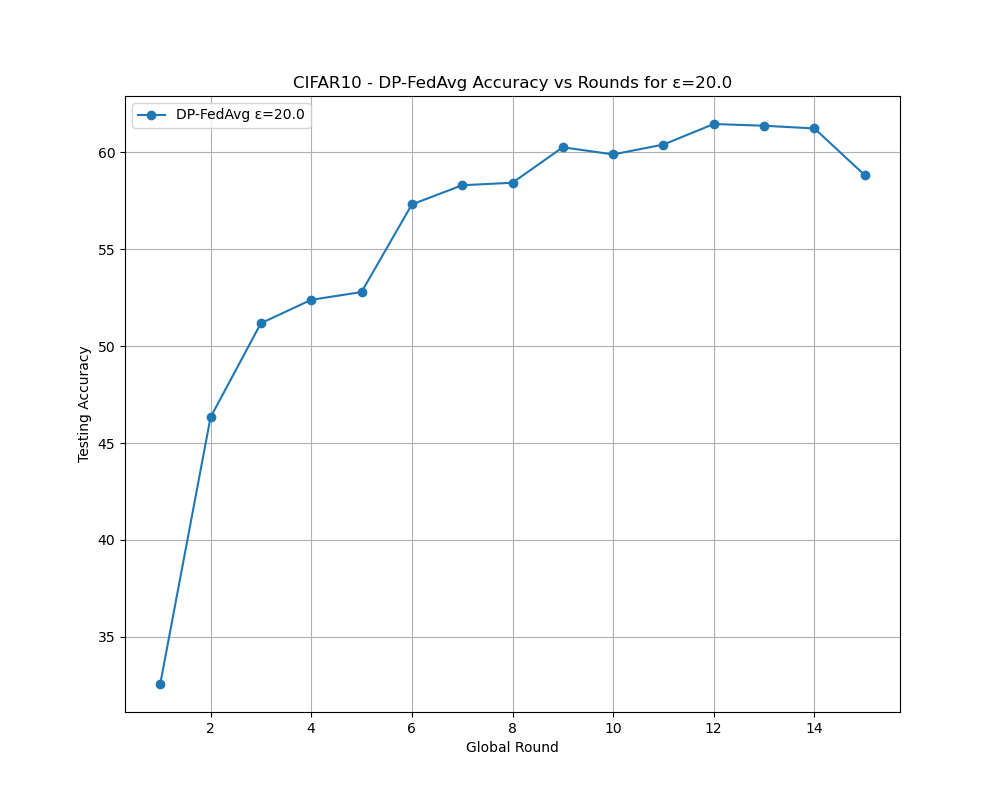
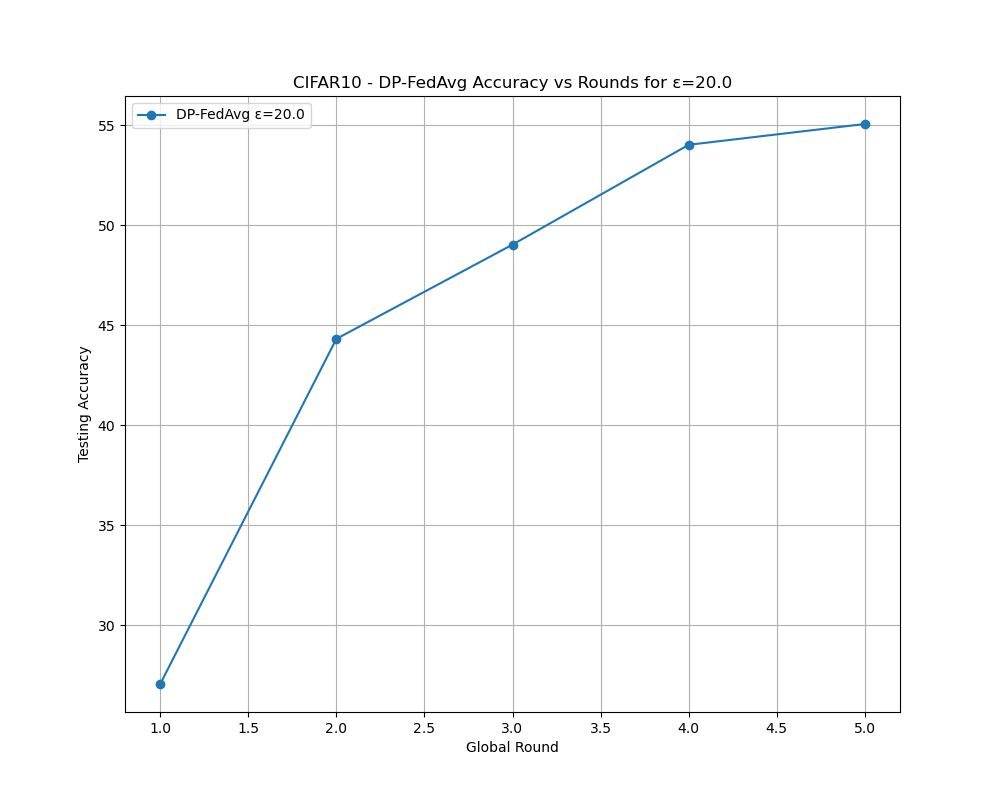
Working MIA attacks on model, output table to show Attack MOdel accuracy vs Epsilon Values

diff --git a/GPU_CIFAR10_DP_FedAvg.py b/GPU_CIFAR10_DP_FedAvg.py
@@ -10,6 +10,8 @@ from torch.utils.data import DataLoader, SubsetRandomSampler
 from sklearn.model_selection import train_test_split
 from sklearn.linear_model import LogisticRegression
 from sklearn.metrics import accuracy_score
+import pandas as pd
+import seaborn as sns
 
 # Check if GPU is available and set the device accordingly
 # Explicitly set the device to GPU 0 (NVIDIA GeForce RTX 4060)
@@ -130,9 +132,9 @@ def train_attack_model(X, y):
     predictions = attack_model.predict(X_test)
     accuracy = accuracy_score(y_test, predictions)
     print(f"Attack Model Accuracy: {accuracy:.4f}")
-    return attack_model
+    return attack_model, accuracy
 
-def run_fedavg(dataset_name='CIFAR10', num_clients=4, num_rounds=15, local_epochs=1, epsilon_values=[0.0, 1.0, 5.0, 10.0, 20.0, 30.0, 40.0, 50.0], delta=0.002):
+def run_fedavg(dataset_name='MNIST', num_clients=4, num_rounds=5, local_epochs=1, epsilon_values=[0.0, 1.0, 5.0, 10.0, 20.0, 30.0, 40.0, 50.0], delta=0.002):
     trainset, testset = load_dataset(dataset_name)
     client_loaders = partition_data(trainset, num_clients)
     test_loader = get_test_loader(testset)
@@ -141,6 +143,8 @@ def run_fedavg(dataset_name='CIFAR10', num_clients=4, num_rounds=15, local_epoch
 
     if not os.path.exists('./log'):
         os.makedirs('./log')
+
+    attack_results = []
 
     for epsilon in epsilon_values:
         dp_accuracies = []
@@ -171,10 +175,20 @@ def run_fedavg(dataset_name='CIFAR10', num_clients=4, num_rounds=15, local_epoch
         _, non_member_logits = test_model(global_model_dp, test_loader, record_logits=True)
         X, y = prepare_attack_data(member_logits, non_member_logits)
         print(f"Running attack model for epsilon {epsilon}...")
-        train_attack_model(X, y)
+        _, attack_accuracy = train_attack_model(X, y)
+        attack_results.append((epsilon, attack_accuracy))
+
+    # Create a table for Attack Model Accuracy vs Epsilon Values
+    attack_df = pd.DataFrame(attack_results, columns=['Epsilon', 'Attack Model Accuracy'])
+    plt.figure(figsize=(8, 4))
+    plt.colorbar()
+    sns.heatmap(attack_df.set_index('Epsilon').T, annot=True, cmap='Blues', cbar=False, fmt='.4f')
+    plt.title('Attack Model Accuracy vs Epsilon Values')
+    plt.savefig('./log/attack_model_accuracy_table.png')
+    plt.close()
 
     print("All simulations completed and results saved.")
 
 if __name__ == "__main__":
-    dataset_name = 'CIFAR10'
+    dataset_name = 'MNIST'
     run_fedavg(dataset_name)
